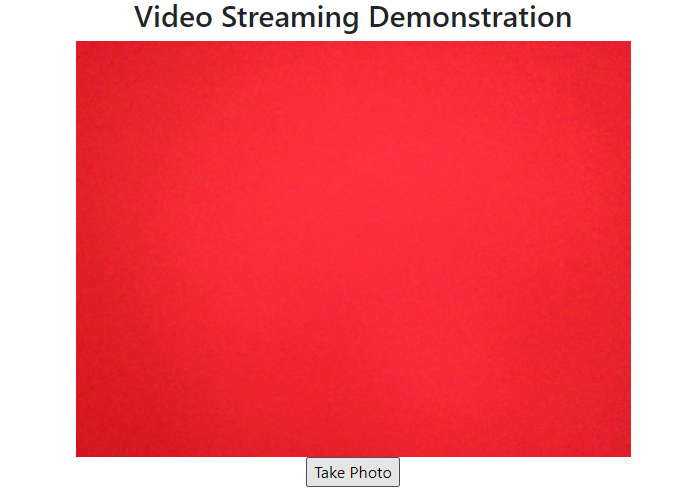
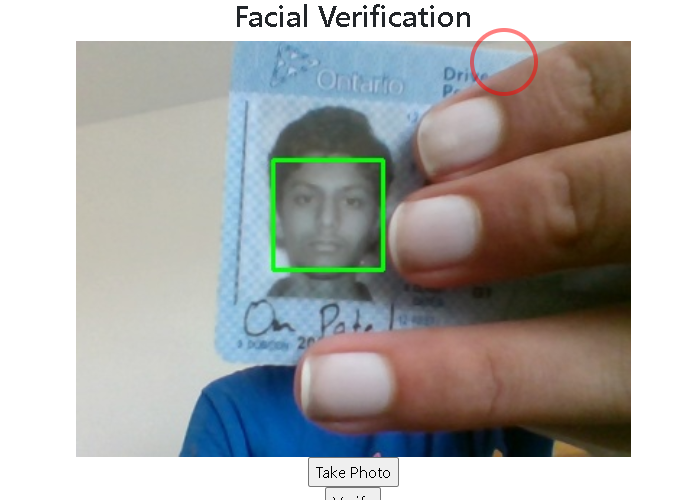
final

diff --git a/display/templates/about.html b/display/templates/about.html
@@ -2,7 +2,6 @@
 
 {% block content %}
 
-
     <h1>About Loud Whistle</h1>
 	<body class="subpage">
 		<!-- Main -->
@@ -20,7 +19,7 @@
 								<section class="wrapper style1">
 									<div class="inner">
 										<header class="align-center">
-											<h2>Blockchain Security</h2>
+											<h3>Blockchain Security</h3>
 											<p> Loud Whistle uses SHA-256 encryption to hash the personal information of the users and stores it on a Blockchain
 												to guarantee isolation of this information. Having a decentralzied location for user data leads to the assurance of maximum privacy and safety.
 											</p>    
@@ -31,8 +30,9 @@
 							</section>
 								<div class="col col1 first">
 									<div class="image round fit">
-										<a href="base.html" class="link" ><img src="https://miro.medium.com/max/1000/0*jI6w_R463IemyAfK" alt="" /></a>
-									</div>
[1 lines of base64/hex data omitted]
+										</center>
+										</div>
 								</div>
 							</div>
 							</div>

diff --git a/display/templates/verification.html b/display/templates/verification.html
@@ -20,7 +20,7 @@
     </style>
   </head>
   <body>
-    <h1 align="center">Video Streaming Demonstration</h1>
+    <h1 align="center">Facial Verification</h1>
     <img id="bg" class="center" src="{{ url_for('video_feed') }}">
 
     <form method="post" action="/takescreenshot">
@@ -35,7 +35,7 @@
 
     <script>
       function notification(){
-        alert("Place your photo id. Then the first Screenshot of this image now. Name this id.png. Then click ok, and click take photo twice in orded to take a picture of your face. Then name this file as identity.png. Remember, please use the green square in your favour")
+        alert("A photo has been taken for verification purposes. Please take an image of your photo ID now.")
       }
       
     </script>

diff --git a/display/templates/create.html b/display/templates/create.html
@@ -13,12 +13,12 @@
     </div>
     <div class="form-group">
         <label for="category">Category</label>
-        <textarea name="category" placeholder="category of you post ex. job, wanted ad, help etc"
+        <textarea name="category" placeholder="Issue (The topic of your issue)"
                   class="form-control">{{ request.form['category'] }}</textarea>
     </div>
     <div class="form-group">
         <label for="content">Content</label>
-        <textarea name="content" placeholder="Post content"
+        <textarea name="content" placeholder="Post content.."
                   class="form-control">{{ request.form['content'] }}</textarea>
     </div>
     

diff --git a/display/blockchain.py b/display/blockchain.py
@@ -2,7 +2,8 @@ import hashlib
 import json
 from time import time
 import random
-
+import gspread
+from oauth2client.service_account import ServiceAccountCredentials
 
 class Blockchain(object):
     def __init__(self):
@@ -16,7 +17,7 @@ class Blockchain(object):
             'index': len(self.chain) + 1,
             #this is the info of each block that 
             'timestamp': time(),
-            'info': self.pending_input,
+            #'info': self.pending_input,
             'proof': proof,
             'previous_hash': previous_hash or self.hash(self.chain[-1])
         }
@@ -51,24 +52,24 @@ blockchain = Blockchain()
 def automation(name, address, email):
 
     blockchain.new_input(name, address, email)
-    blockchain.new_block(random.randint(10000, 10000000))
+    a = blockchain.new_block(random.randint(10000, 10000000))
     
     chain_list = blockchain.chain
-        
-    with open(r'./test.txt','w') as fout:
-            #json.dump(object to be added goes here, filename goes here)
-            # data = {
-            #     "hashed_block" : chain_list
-            # }
-            # json.dump(str(chain_list), fout)
-            fout.write(str(chain_list))
-            fout.write('\n')
-            fout.close()
+
+    spreadsheetId = "1qTITycZDJZLm3VNvRUMXxaHLcjIu_frw5Aylny7AkOI"  # Please set the Spreadsheet ID.
+    sheetName = "test1"  # Please set the sheet name.
+    scope = ['https://spreadsheets.google.com/feeds',
+         'https://www.googleapis.com/auth/drive'] 
+    creds = ServiceAccountCredentials.from_json_keyfile_name('client_secret.json', scope)
+    client = gspread.authorize(creds)
+    header_to_key =  a
 
 
-    # with open('./chain.json','r') as read_file:
-    #         mydata = json.load((read_file))
-    # print(chain_list)
-    
+    spreadsheet = client.open(sheetName)
+    worksheet = spreadsheet.worksheet(sheetName)
+
+    sheet = client.open(sheetName)
+    ws = sheet.worksheet('myWorksheet')
+    ws.update_acell('A1', str(chain_list))
 
     

diff --git a/display/app.py b/display/app.py
@@ -5,6 +5,7 @@ import blockchain
 from camera import VideoCamera
 import cv2
 import pyautogui
+import confirm
 
 
 def get_db_connection():
@@ -99,7 +100,6 @@ def video_feed():
     return Response(gen(VideoCamera()),
                     mimetype='multipart/x-mixed-replace; boundary=frame')
 
-
 @app.route('/takescreenshot', methods = ['GET','POST'])
 def contact():
     if request.method == 'POST':
@@ -116,8 +116,10 @@ def contact():
 def comparison():
     if request.method == 'POST':
         if request.form['Verify'] == 'Verify':
-            print('FRIEDRICE------------------------')
+            print('Id verifying...')
+            confirm.check_identity()
     elif request.method == 'GET':
         print("Button was not pressed")
+    
     return render_template('verification.html')
 

diff --git a/display/confirm.py b/display/confirm.py
@@ -1,10 +1,10 @@
-#import face_recognition
-   
+import face_recognition
+  
 def check_identity():
 
-    person_image = face_recognition.load_image_file("identity.png") #person saves
+    person_image = face_recognition.load_image_file("persontest.png") #person saves
 
-    id_image = face_recognition.load_image_file("id.png")#modi
+    id_image = face_recognition.load_image_file("id.png")
     # print("loading complete---------")
     
     # remember to connect a function for screen shot id, then a function for webcam
@@ -27,6 +27,6 @@ def check_identity():
     print("Do the photos match? {}".format(results[0]))
 
 
+    
 
-#check_identity()
 
